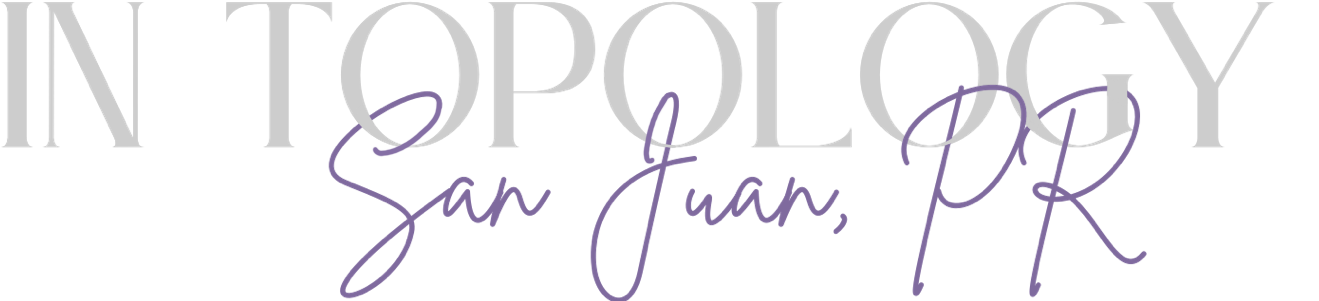
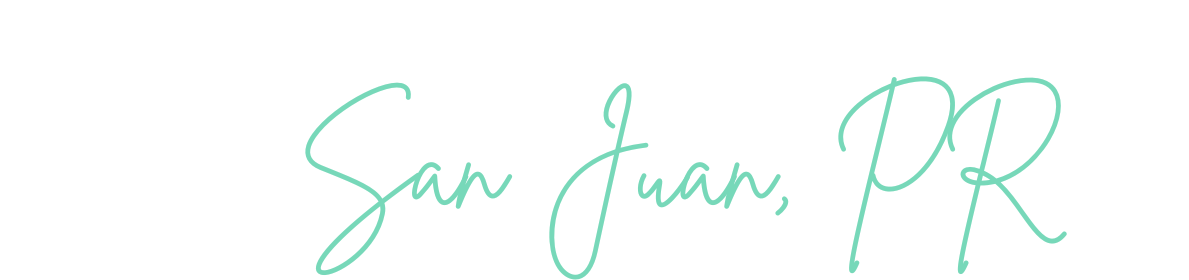
background image and new color scheme

diff --git a/scss/custom.scss b/scss/custom.scss
@@ -23,7 +23,9 @@
 
 body {
     background-color: var(--bs-body-color);
-    background-image: url("banner.png");
+    // background-image: url(../images/banner.png);
+    // background-attachment: fixed;
+    // background-size: cover;
     margin: 0 0 0 0;
     padding: 0 0 0 0;
     overflow-x: hidden;
@@ -51,7 +53,7 @@ body {
     display: inline-block;
     padding: 5px 10px 5px 10px; // top right bottom left
     // color: #d4ccc2;
-    color: #948C86; // TODO: check lvl of contrast satisfies accessibility reqs
+    color: #efefef; // TODO: check lvl of contrast satisfies accessibility reqs
     // averaged with https://meyerweb.com/eric/tools/color-blend/#292323:EDE4D9:10:hex
     // color: #8B83FE;
     font-size: 20px;

diff --git a/scss/custom.css b/scss/custom.css
@@ -11,7 +11,6 @@
 
 body {
   background-color: var(--bs-body-color);
-  background-image: url("banner.png");
   margin: 0 0 0 0;
   padding: 0 0 0 0;
   overflow-x: hidden;
@@ -37,7 +36,7 @@ body {
 #navbar li {
   display: inline-block;
   padding: 5px 10px 5px 10px;
-  color: #948C86;
+  color: #efefef;
   font-size: 20px;
   transition: ease color 0.3s;
 }

diff --git a/index.html b/index.html
@@ -36,7 +36,7 @@
     </script>
     <title>Algebraic Structures in Topology</title>
   </head>
-  <body>
+  <body style="background-image: url(images/banner.png);background-attachment: fixed;background-size: cover;">
     <div id="navbar">
       <div class="navbar-right">
         <ul class="navbar-right">
